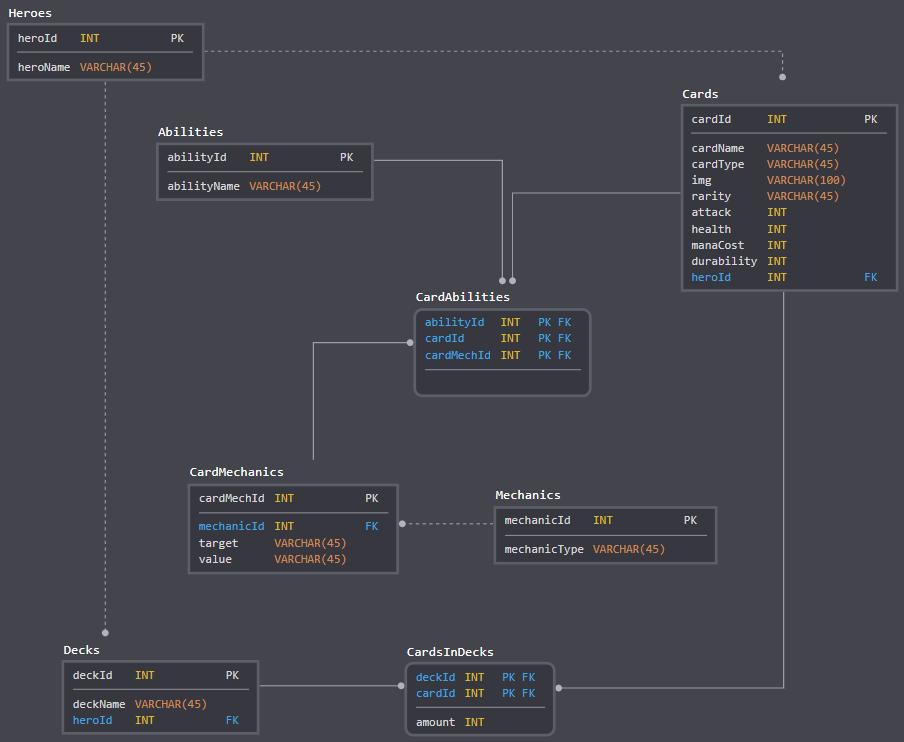
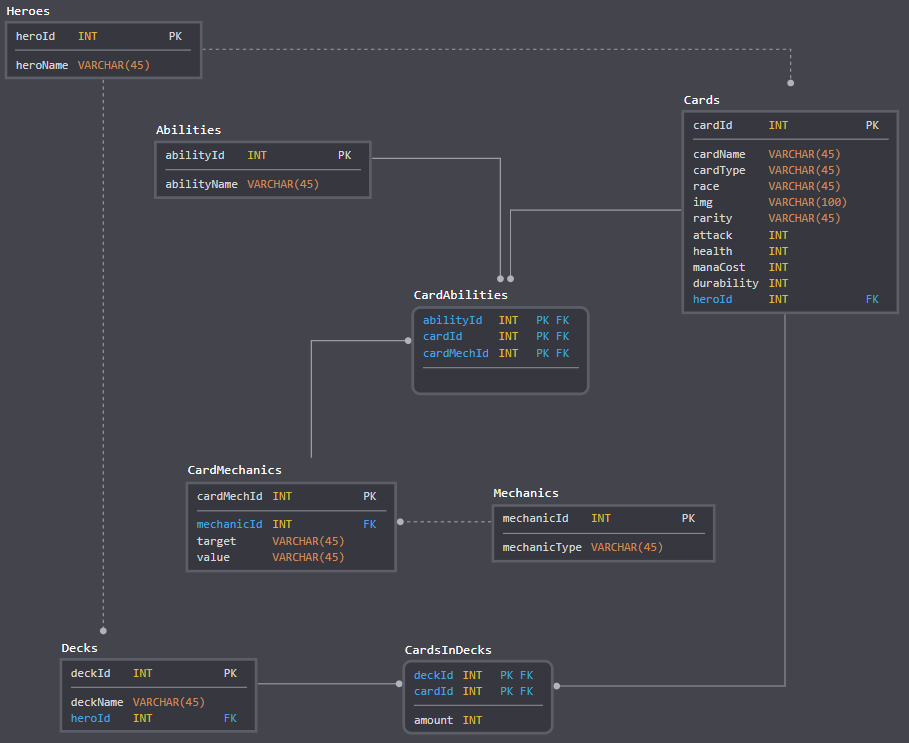
added race and inserting cards

diff --git a/java_backend/src/main/java/setupDb/SetupDatabase.java b/java_backend/src/main/java/setupDb/SetupDatabase.java
@@ -23,7 +23,7 @@ public class SetupDatabase {
     private static final String MINIONS_LOCATION = "json/minions.json";
     private static final String WEAPONS_LOCATION = "json/weapons.json";
 
-    private static final String[] HEROES = {"Mage", "Paladin"};
+    private static final String[] HEROES = {"Neutral", "Mage", "Paladin"};
 
     private SqlDatabase db = new SqlDatabase("jdbc:mysql://localhost:3306/howeststone", "root", "");
     private JSONArray spellList;
@@ -46,6 +46,7 @@ public class SetupDatabase {
         addMechanicsToDb();
         listAllMechanicTargets();
         listAllMechanicValues();
+        addCardsToDb();
     }
 
     private void addAbilitiesToDb() {
@@ -98,7 +99,52 @@ public class SetupDatabase {
     }
 
     private void addCardsToDb() {
+        System.out.println("\nAdding cards...");
+        addCardFromJSONArray(spellList);
+        addCardFromJSONArray(minionList);
+        addCardFromJSONArray(weaponList);
+        System.out.println(ColorFormats.blue("cards have been added!"));
+    }
 
+    private void addCardFromJSONArray(JSONArray cards) {
+        String name;
+        String type;
+        String race;
+        String img;
+        String rarity;
+        int attack;
+        int health;
+        int manaCost;
+        int durability;
+        int heroId = 0;
+
+        for (Object card : cards) {
+            JSONObject jsonCard = (JSONObject) card;
+
+            //noinspection unchecked
+            name = jsonCard.getOrDefault("name", "NULL").toString();
+            //noinspection unchecked
+            type = jsonCard.getOrDefault("type", "NULL").toString();
+            //noinspection unchecked
+            race = jsonCard.getOrDefault("race", "NULL").toString();
+            //noinspection unchecked
+            img = jsonCard.getOrDefault("img", "NULL").toString();
+            //noinspection unchecked
+            rarity = jsonCard.getOrDefault("rarity", "NULL").toString();
+            //noinspection unchecked
+            attack = Integer.parseInt(jsonCard.getOrDefault("attack", 0).toString());
+            //noinspection unchecked
+            health = Integer.parseInt(jsonCard.getOrDefault("health", 0).toString());
+            //noinspection unchecked
+            manaCost = Integer.parseInt(jsonCard.getOrDefault("cost", 0).toString());
+            //noinspection unchecked
+            durability = Integer.parseInt(jsonCard.getOrDefault("durability", 0).toString());
+            //noinspection unchecked
+            heroId = getHeroId(jsonCard.getOrDefault("playerClass", "NULL").toString());
+
+            if(0 <= heroId)
+                insertCard(name, type, race, img, rarity, attack, health, manaCost, durability, heroId);
+        }
     }
 
     private void listAllMechanicTargets() {
@@ -135,7 +181,7 @@ public class SetupDatabase {
         insertSingleValue(hero, SqlStatements.INSERT_HERO, "hero");
     }
 
-    private void insertCard(String name, String type, String img, String rarity, int attack, int health, int manaCost, int durability, int heroId) {
+    private void insertCard(String name, String type,String race ,String img, String rarity, int attack, int health, int manaCost, int durability, int heroId) {
         try (
                 Connection conn = db.getConnection();
                 PreparedStatement stmt = conn.prepareStatement(SqlStatements.INSERT_CARD,
@@ -143,13 +189,14 @@ public class SetupDatabase {
         ) {
             stmt.setString(1, name);
             stmt.setString(2, type);
-            stmt.setString(3, img);
-            stmt.setString(4, rarity);
-            stmt.setInt(5, attack);
-            stmt.setInt(6, health);
-            stmt.setInt(7, manaCost);
-            stmt.setInt(8, durability);
-            stmt.setInt(9, heroId);
+            stmt.setString(3, race);
+            stmt.setString(4, img);
+            stmt.setString(5, rarity);
+            stmt.setInt(6, attack);
+            stmt.setInt(7, health);
+            stmt.setInt(8, manaCost);
+            stmt.setInt(9, durability);
+            stmt.setInt(10, heroId);
             final int AFFECTED_ROWS = stmt.executeUpdate();
 
             if (AFFECTED_ROWS == 0) {
@@ -197,6 +244,28 @@ public class SetupDatabase {
         }
     }
 
+    private int getHeroId(String heroName) {
+        int id = -1;
+
+        try (
+                Connection conn = db.getConnection();
+                PreparedStatement stmt = conn.prepareStatement(SqlStatements.SELECT_HERO_ID);
+        ){
+            stmt.setString(1, heroName);
+            try (ResultSet rs = stmt.executeQuery()) {
+                if (rs.next()) {
+                    id = rs.getInt("heroId");
+                } else {
+                    System.out.println(ColorFormats.red("\t* No ID found for "+ heroName +"!"));
+                }
+            }
+        } catch (SQLException e) {
+            e.printStackTrace();
+        }
+
+        return id;
+    }
+
     private Set<String> addAbilitiesToSet(JSONArray jsonArray, Set<String> prevFoundAbilities) {
         return addSubItemsToSet(jsonArray, prevFoundAbilities, "abilities", "name");
     }
@@ -212,8 +281,6 @@ public class SetupDatabase {
     private Set<String> addMechanicValueToSet(JSONArray jsonArray, Set<String> prevFoundMechanicValues) {
         return addSubItemsToSet(jsonArray, prevFoundMechanicValues, "mechanics", "value");
     }
-
-
 
     private Set<String> addSubItemsToSet(JSONArray jsonArray, Set<String> prevFound, String item, String subItem) {
         for (Object obj : jsonArray) {

diff --git a/java_backend/src/main/java/db/SqlStatements.java b/java_backend/src/main/java/db/SqlStatements.java
@@ -5,10 +5,13 @@ public class SqlStatements {
             "SELECT deckName, heroId FROM Decks;";
 
     public static final String SELECT_HEROES =
-            "SELECT * FROM .Decks;";
+            "SELECT * FROM howeststone.Decks;";
 
     public static final String SELECT_CARDS =
             "SELECT * FROM howeststone.Decks;";
+
+    public static final String SELECT_HERO_ID =
+            "SELECT heroId FROM howeststone.Heroes WHERE heroName = ?";
 
     public static final String SELECT_CARDSINDECK =
             "SELECT * FROM howeststone.Decks;";
@@ -32,5 +35,5 @@ public class SqlStatements {
             "INSERT INTO `howeststone`.`Mechanics` (`mechanicType`) VALUES (?)";
 
     public static String INSERT_CARD =
-            "INSERT INTO `howeststone`.`Cards` (`cardName`, `cardType`, `img`, `rarity`, `health`, `attack`, `manaCost`, `durability`, `heroId`) VALUES (?, ?, ?, ?, ?, ?, ?, ?, ?)";
+            "INSERT INTO `howeststone`.`Cards` (`cardName`, `cardType`,`race` ,`img`, `rarity`, `health`, `attack`, `manaCost`, `durability`, `heroId`) VALUES (?, ?, ?, ?, ?, ?, ?, ?, ?, ?)";
 }
